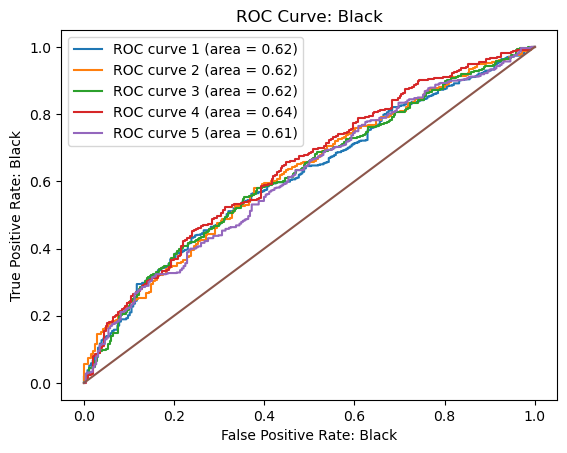
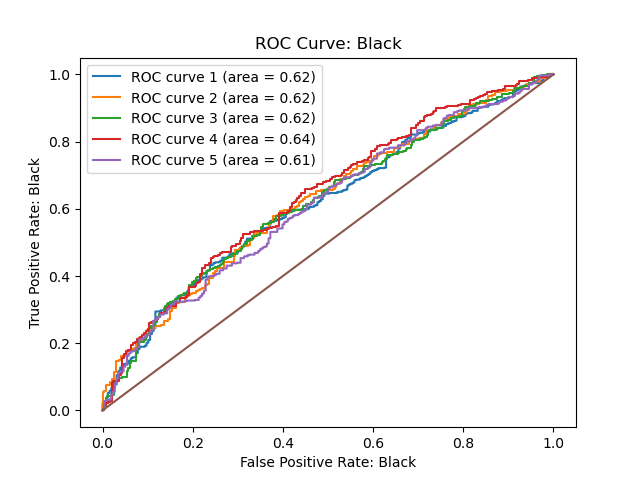
words for log stuff.

diff --git a/src/chess.py b/src/chess.py
@@ -235,7 +235,7 @@ def chess_correlations(white, black, path="images/correlations.png"):
 # Logistic Regression for white with 5 folds to determine true positive rate, or probability of detection, as a fucntion of false positive rate, or probability of false alarm. 
 # Also, across all 5 folds, the average accuracy, precision, recall, F1 Score, and log loss were determined for white.
 
-def test_train_white(chess_df):
+def test_train_white(chess_df, path="images/roc_curve_white.png"):
     chess_df = chess_df.copy()
     chess_df['Rating Differential White'] = (chess_df['white_rating'] - chess_df['black_rating']).astype(int)
     white_greater_100 = chess_df[(chess_df['Rating Differential White'] > 100)]
@@ -296,8 +296,7 @@ def test_train_white(chess_df):
         plt.title('ROC Curve: White')
         plt.xlabel('False Positive Rate: White')
         plt.ylabel('True Positive Rate: White')
-        plt.show()
-        plt.savefig("images/roc_curve_white.png")
+        plt.savefig(path)
         return print({'Mean Accuracy List [White]': np.mean(accuracy_list), 'Mean Precision List [White]': np.mean(precision_list), 'Mean Recall List [White]': np.mean(recall_list), 'Mean F1 Score [White]': np.mean(f1_score_list), 'Mean Log Loss [White]': np.mean(log_loss_list)})
         
 
@@ -309,7 +308,7 @@ def test_train_white(chess_df):
 # Logistic Regression for black with 5 folds to determine true positive rate, or probability of detection, as a fucntion of false positive rate, or probability of false alarm. 
 # Also, across all 5 folds, the average accuracy, precision, recall, F1 Score, and log loss were determined for black.
 
-def test_train_black(chess_df):
+def test_train_black(chess_df, path='images/roc_curve_black.png'):
     chess_df = chess_df.copy()
     chess_df['Rating Differential Black'] = (chess_df['black_rating'] - chess_df['white_rating']).astype(int)
     black_greater_100 = chess_df[(chess_df['Rating Differential Black'] > 100)]
@@ -370,8 +369,7 @@ def test_train_black(chess_df):
         plt.title('ROC Curve: Black')
         plt.xlabel('False Positive Rate: Black')
         plt.ylabel('True Positive Rate: Black')
-        plt.show()
-        plt.savefig("images/roc_curve_black.png")
+        plt.savefig(path)
         return print({'Mean Accuracy List [Black]': np.mean(accuracy_list), 'Mean Precision List [Black]': np.mean(precision_list), 'Mean Recall List [Black]': np.mean(recall_list), 'Mean F1 Score [Black]': np.mean(f1_score_list), 'Mean Log Loss [Black]': np.mean(log_loss_list)})
         
 
@@ -393,8 +391,8 @@ if __name__ == "__main__":
 
     # chess_outcomes_black = chess_differentials_black(chess_data)
 
-    chess_corr = chess_correlations(chess_differentials_white(chess_data), chess_differentials_black(chess_data))
+    # chess_corr = chess_correlations(chess_differentials_white(chess_data), chess_differentials_black(chess_data))
 
-    # log_reg_white = test_train_white(chess_data)
+    log_reg_white = test_train_white(chess_data)
 
     # log_reg_black = test_train_black(chess_data)
